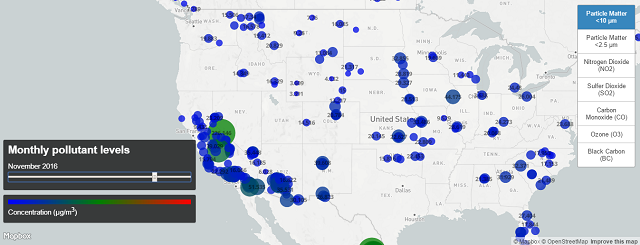
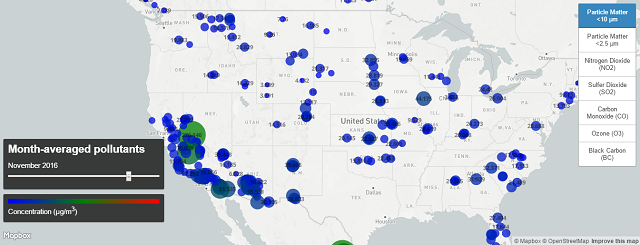
thumbnail update

Changed region(s): [[0.0, 0.0, 1.0, 1.0], [0.5625, 0.7714, 0.6562, 0.8], [0.0, 0.9429, 0.0625, 1.0]]

diff --git a/projects/AirQuality/world_monthly_data/AQ_monthly.html b/projects/AirQuality/world_monthly_data/AQ_monthly.html
@@ -19,7 +19,7 @@
 .map-overlay {
     font: 15px/24px Helvetica, Arial, 'Helvetica Neue', sans-serif;
     position: absolute;
-    width: 30%;
+    width: 25%;
     bottom: 2em;
     left: 0;
     padding: 10px;
@@ -105,7 +105,7 @@
 
 <div class='map-overlay top'>
     <div class='map-overlay-inner'>
-        <h2>Monthly pollutant levels</h2>
+        <h2>Month-averaged pollutants</h2>
         <label id='year-month'></label>
         <input id='slider' type='range' min='0' max='21' step='1' value='0' />
     </div>
